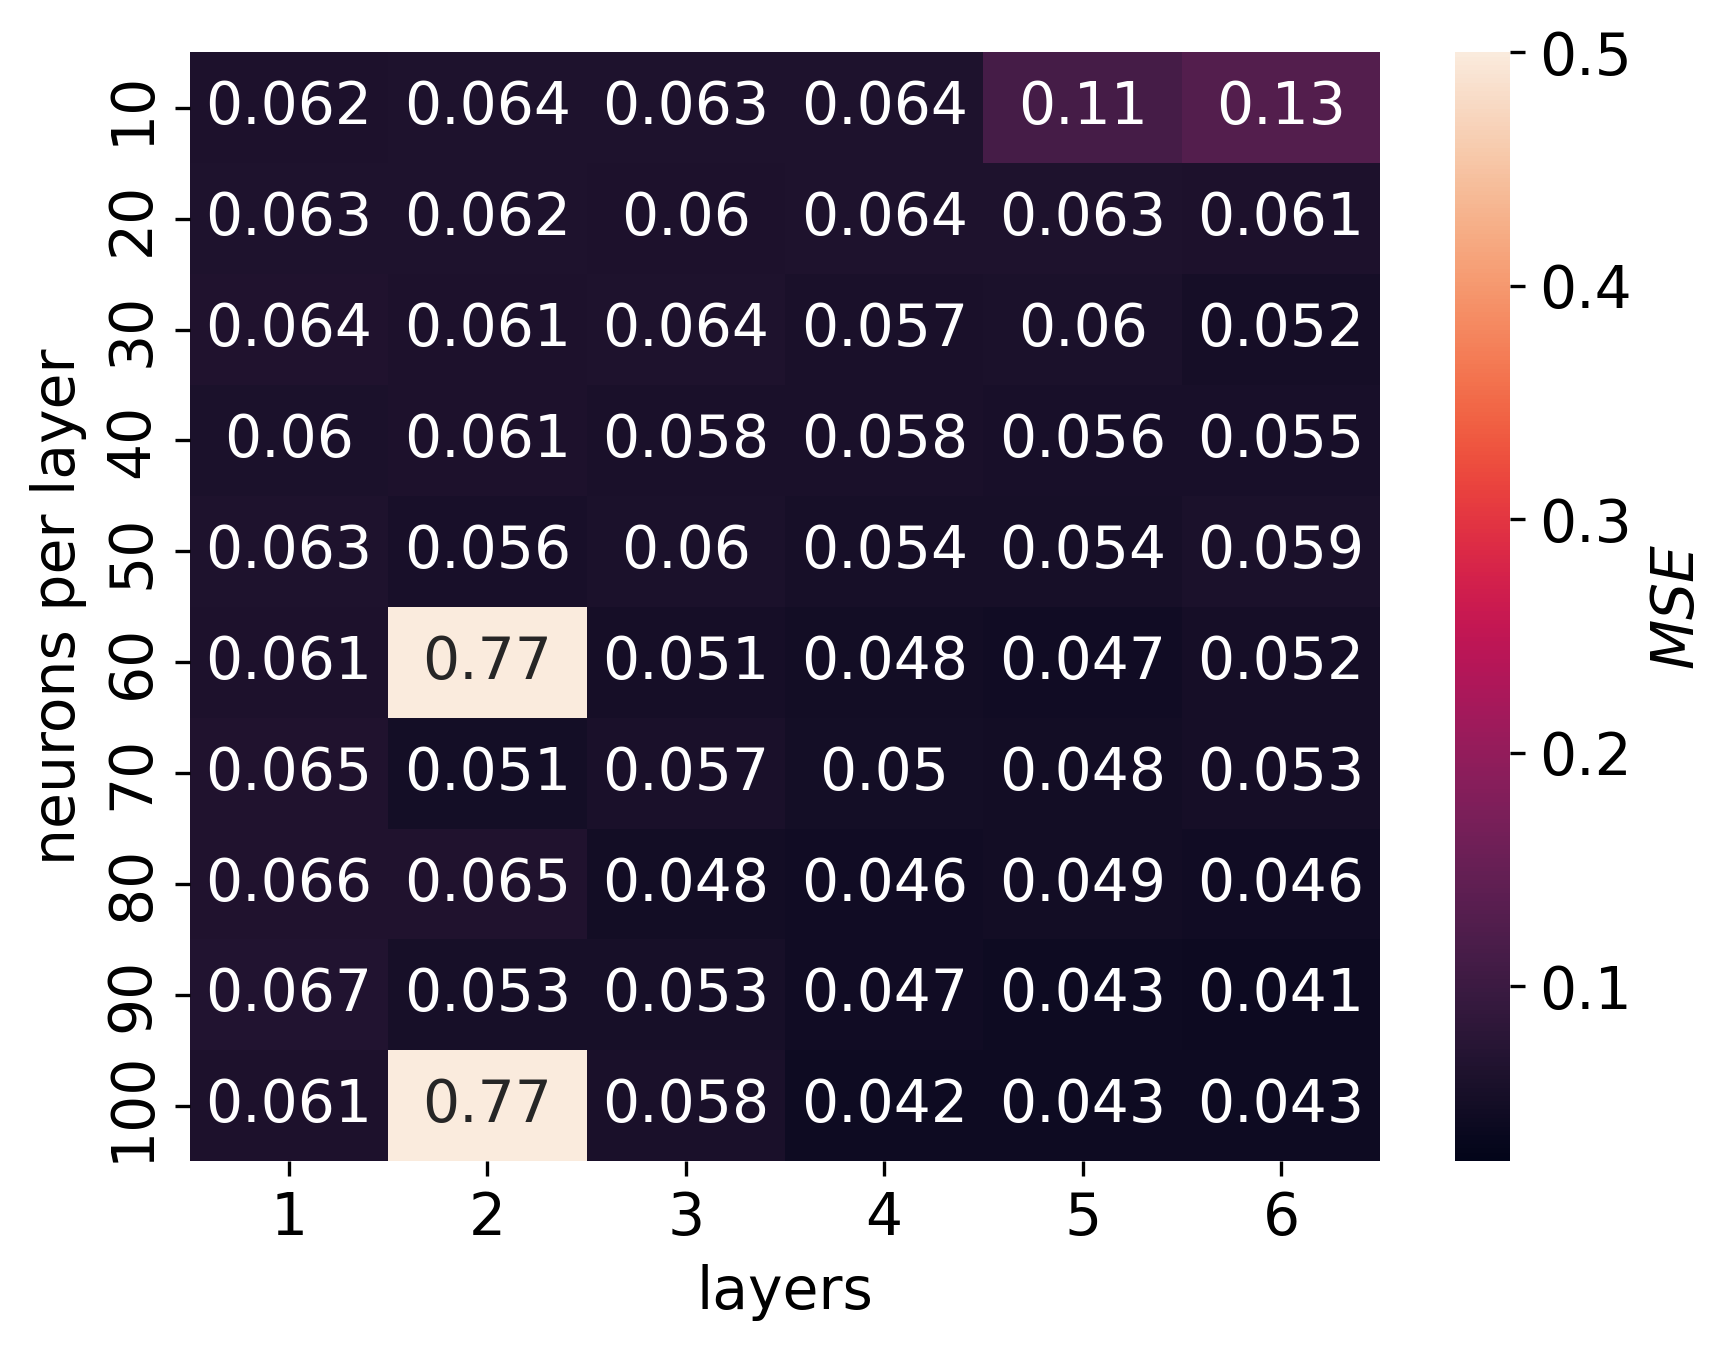
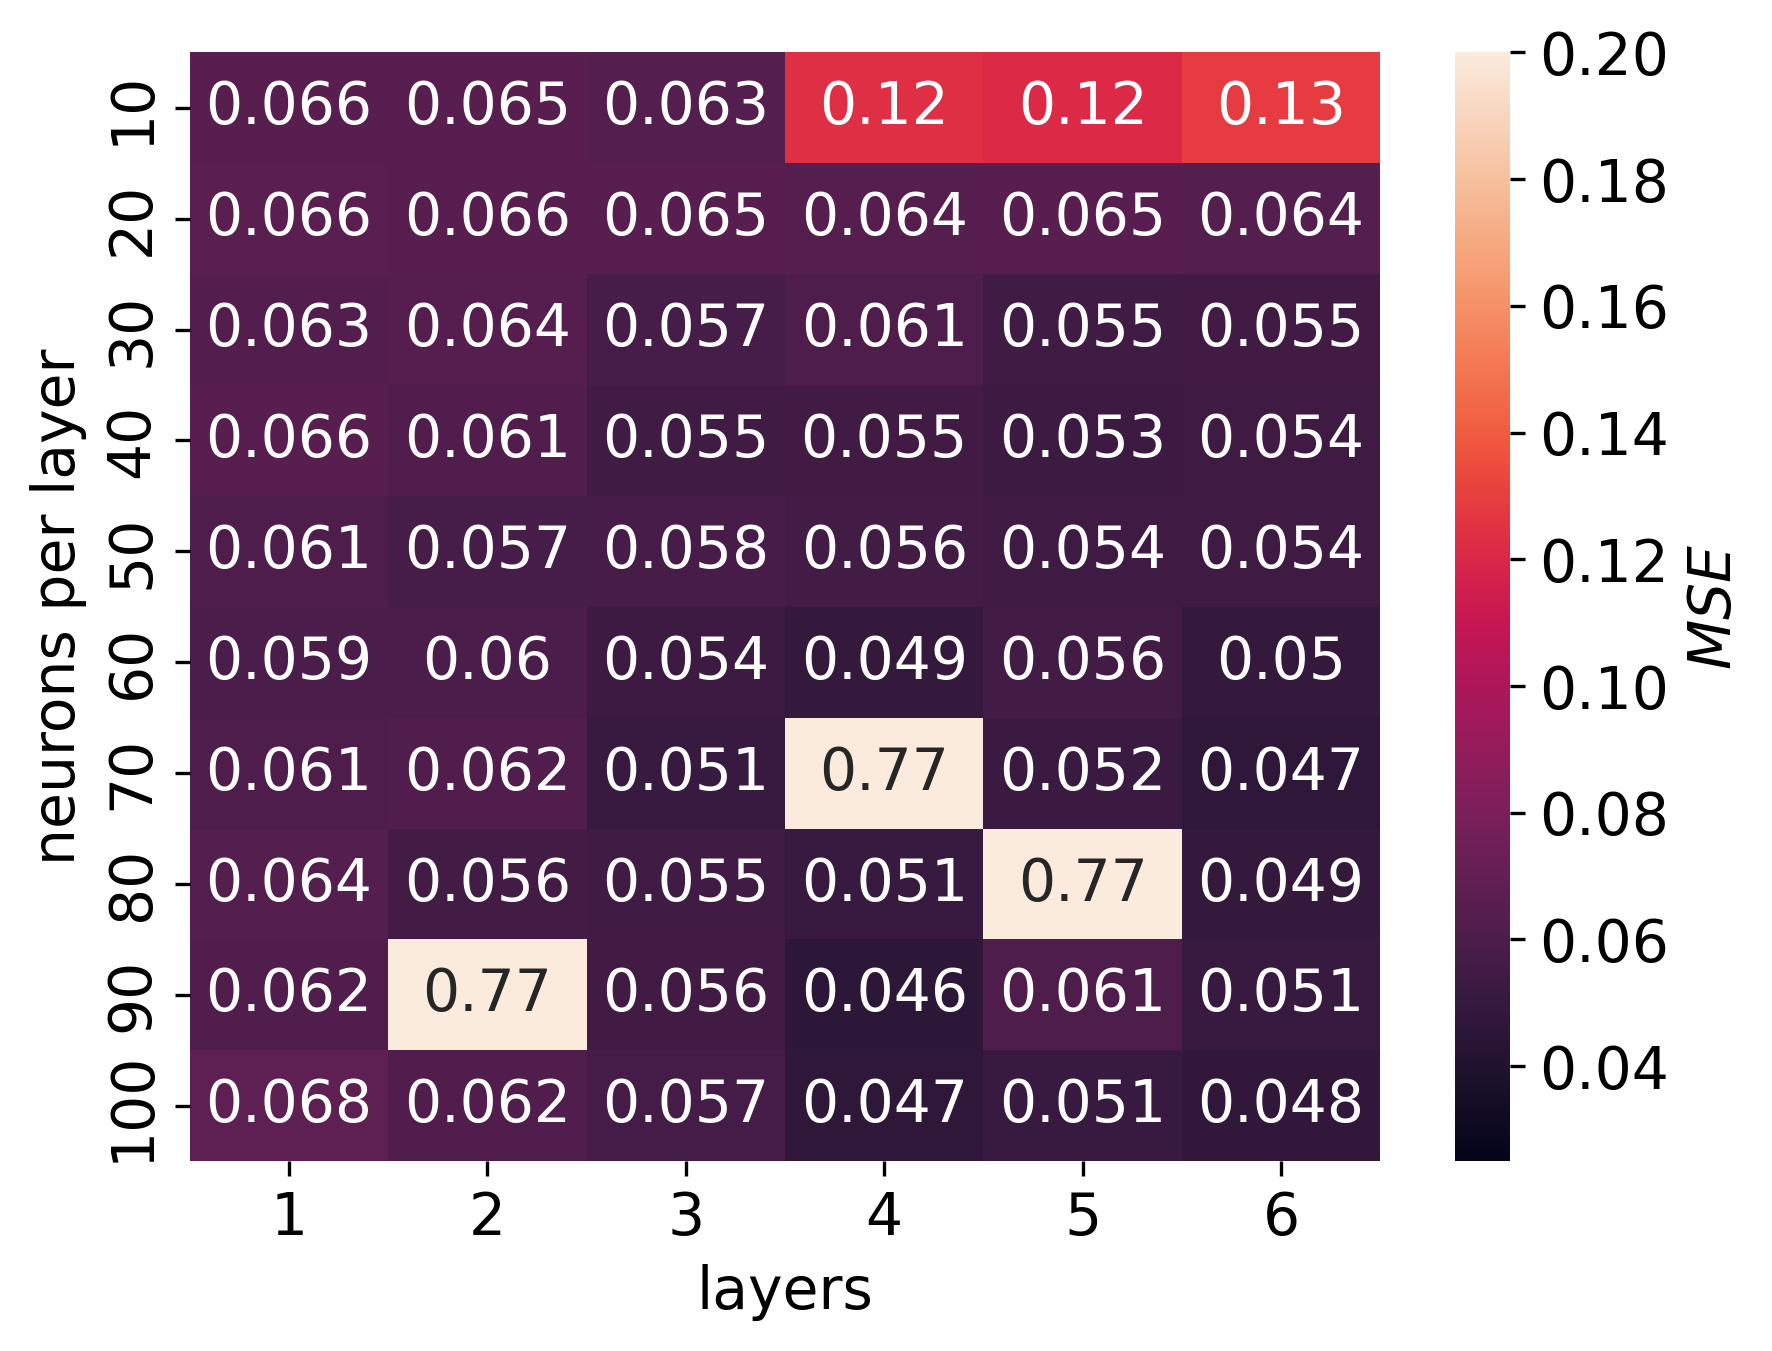
added cost function and activation function as arguments in NN

diff --git a/project2/src/NN.py b/project2/src/NN.py
@@ -8,7 +8,9 @@ from sklearn.metrics import mean_squared_error, r2_score, mean_squared_log_error
 
 class NeuralNetwork :
 
-    def __init__(self, X, Y, neurons, epochs, batch_size, eta, lamda=0., moment=0):
+    def __init__(self, X, Y, neurons, epochs, batch_size, eta, lamda=0., moment=0, seed=None, initialize="random", activation="sigmoid", cost="error", last_activation=None):
+        if seed != None:
+            np.random.seed(seed)
         self.X = X
         self.Y = Y 
         self.n_inputs = X.shape[0]
@@ -22,24 +24,66 @@ class NeuralNetwork :
         self.eta = eta 
         self.lamda = lamda
         self.moment = moment
+        self.initialize = initialize
         self.initialize_arrays()
-  
+
+        # Activation functions
+        self.act = self.activation_function(activation)
+        self.act_grad = self.activation_gradient(activation)
+
+        if last_activation != None:
+            self.act_grad_out = self.activation_gradient(last_activation)
+        else:
+            self.act_grad_out = self.act_grad
+
+        # Cost functions
+        if cost == "error":
+            self.cost = self.error 
+            self.cost_grad = self.error_grad
+        elif cost == "cross entropy":
+            self.cost = self.cross_entropy 
+            self.cost_grad = self.cross_entropy_grad
+
+    def activation_function(self, s):
+        if s == "relu":
+            return self.relu
+        elif s == "lrelu":
+            return self.l_relu
+        else:
+            return self.sigmoid 
+        
+    def activation_gradient(self, s):
+        if s == "relu":
+            return self.relu_grad
+        elif s == "lrelu":
+            return self.l_relu_grad
+        else:
+            return self.sigmoid_grad
+
     def initialize_arrays(self):
         # Initialize Weight
         self.weight = np.zeros(self.n_layers +1, dtype=object)
-        self.weight[0] = np.random.randn(int(self.neurons[0]), self.input_dim)
-        for i in range(1, self.n_layers):
-            self.weight[i] = np.random.randn(int(self.neurons[i]), int(self.neurons[i-1]))
-        self.weight[-1] = np.random.randn(self.output_dim, int(self.neurons[-1]))
-
-        # Initialize Bias
         self.bias = np.zeros(self.n_layers +1, dtype=object)
-        for i in range(self.n_layers):
-            #self.bias[i] = np.zeros(self.neurons[i])
-            self.bias[i] = np.random.randn(int(self.neurons[i]))
 
-        #self.bias[-1] = np.zeros(self.output_dim)
-        self.bias[-1] = np.random.randn(self.output_dim)
+        if self.initialize == "zeros":
+            self.weight[0] = np.zeros(int(self.neurons[0]), self.input_dim)
+            for i in range(1, self.n_layers):
+                self.weight[i] = np.zeros(int(self.neurons[i]), int(self.neurons[i-1]))
+            self.weight[-1] = np.zeros(self.output_dim, int(self.neurons[-1]))
+            # Initialize Bias
+            for i in range(self.n_layers):
+                self.bias[i] = np.zeros(int(self.neurons[i]))
+            self.bias[-1] = np.zeros(self.output_dim)          
+
+        elif self.initialize == "random":
+            self.weight[0] = np.random.randn(int(self.neurons[0]), self.input_dim)
+            for i in range(1, self.n_layers):
+                self.weight[i] = np.random.randn(int(self.neurons[i]), int(self.neurons[i-1]))
+            self.weight[-1] = np.random.randn(self.output_dim, int(self.neurons[-1]))
+            # Initialize Bias
+            for i in range(self.n_layers):
+                self.bias[i] = np.random.randn(int(self.neurons[i]))
+            self.bias[-1] = np.random.randn(self.output_dim)
 
         # Initialize
         self.a_l = np.zeros(self.n_layers + 1, dtype=object)
@@ -64,15 +108,15 @@ class NeuralNetwork :
         self.z_l[-1] = np.zeros((self.batch_size, self.output_dim))
 
         self.z_l[0] = self.X_batch @ self.weight[0].T + self.bias[0]
-        self.a_l[0] = self.sigmoid(self.z_l[0])
+        self.a_l[0] = self.act(self.z_l[0])
 
 
         for i in range(1, self.n_layers):
             self.z_l[i] = self.a_l[i-1] @ self.weight[i].T + self.bias[i]
-            self.a_l[i] = self.sigmoid(self.z_l[i])
+            self.a_l[i] = self.act(self.z_l[i])
 
         self.z_l[-1] = self.a_l[-2] @ self.weight[-1].T + self.bias[-1]
-        self.a_l[-1] = self.sigmoid(self.z_l[-1])
+        self.a_l[-1] = self.act(self.z_l[-1])
 
     def SGD(self):
          for epoch in range(self.epochs):
@@ -94,11 +138,11 @@ class NeuralNetwork :
     def backprop(self):
         for i in range(self.n_layers):
             self.error[i] = np.zeros((self.batch_size, int(self.neurons[i])))
-        self.error[-1] = self.error_cost_grad(self.a_l[-1], self.Y_batch) * self.sigmoid_grad(self.z_l[-1])
+        self.error[-1] = self.cost_grad(self.a_l[-1], self.Y_batch) * self.act_grad_out(self.z_l[-1])
 
         #backpropagation:
         for i in range(self.n_layers - 1, -1, -1):
-            self.error[i] = (self.error[i + 1] @ self.weight[i + 1]) * self.sigmoid_grad(self.z_l[i])
+            self.error[i] = (self.error[i + 1] @ self.weight[i + 1]) * self.act_grad(self.z_l[i])
         
         self.weight_grad[0] = self.error[0].T @ self.X_batch 
         self.bias_grad[0] = np.sum(self.error[0], axis=0) #######
@@ -113,14 +157,14 @@ class NeuralNetwork :
 
     def feed_forward_out(self, x):
         z_o = x @ self.weight[0].T + self.bias[0]
-        a_o = self.sigmoid(z_o)
+        a_o = self.act(z_o)
 
         for i in range(1, self.n_layers):
             z_o = a_o @ self.weight[i].T + self.bias[i]
-            a_o = self.sigmoid(z_o)
+            a_o = self.act(z_o)
 
         z_o = a_o @ self.weight[-1].T + self.bias[-1]
-        a_o = self.sigmoid(z_o)
+        a_o = self.act(z_o)
         return a_o
 
     def predict(self, x):
@@ -133,12 +177,29 @@ class NeuralNetwork :
     def sigmoid_grad(self, x):
         return self.sigmoid(x) * (1 - self.sigmoid(x)) 
     
-    def error_cost(self, a, y):
+    def relu(self, x):
+        return np.max(0, x)
+    
+    def relu_grad(self, x):
+        return np.where(x <= 0, 0, 1)
+    
+    def l_relu(self, x):
+        return np.where(x < 0, 0.01*x, x)
+    
+    def l_relu_grad(self, x):
+        return np.where(x < 0, 0.01, 1)
+
+    def error(self, a, y):
         return np.sum((a - y)**2) / 2
 
-    def error_cost_grad(self, a, y):
+    def error_grad(self, a, y):
         return a - y
 
+    def cross_entropy(self, a, y):
+        return -np.sum(y* np.log(a) + (1 - y) * np.log(1 - a))
+
+    def cross_entropy_grad(self, a, y):
+        return -(y - a) / (a - a**2)
 
 def design_matrix_1D(x, degree):
     N = len(x)

diff --git a/project2/src/gris_search.py b/project2/src/gris_search.py
@@ -2,20 +2,21 @@ from NN import *
 from functions import * 
 from compare import *
 
-def grid_search_eta_lamda(eta, lamda):
+def grid_search_eta_lamda(xy, xy_test, z, z_test, eta, lamda, neurons, mn, mx, savename, epochs=50, batch_size=5, init="random", act="sigmoid", seed=100):
     mse = np.zeros((len(eta), len(lamda)))
-        for i in range(len(eta)):
-            for j in range(len(lamda)):
-                NN = NeuralNetwork(xy, z.reshape(len(z), 1), neurons, epochs, batch_size, eta, lamda)
-                NN.SGD()
-                pred = min_max_unscale(NN.predict(xy_test).ravel(), mn, mx)
-                mse[i, j] = (MSE(z_test, pred))
+    for i in range(len(eta)):
+        for j in range(len(lamda)):
+            print(lamda[j])
+            NN = NeuralNetwork(xy, z.reshape(len(z), 1), neurons, epochs, batch_size, eta[i], lamda[j], seed=seed, initialize=init, activation=act)
+            NN.SGD()
+            pred = min_max_unscale(NN.predict(xy_test).ravel(), mn, mx)
+            mse[i, j] = (MSE(z_test, pred))
 
-    df = pd.DataFrame(mse, columns=eta, index=lamda)
+    df = pd.DataFrame(mse, columns=np.log10(lamda), index=eta)
     plt.figure()
-    sns.heatmap(df, annot=True, cbar_kws={"label": r"$MSE$"}, vmin=0.025, vmax=0.5)
-    plt.xlabel(r"log$_{10}(\eta$)")
-    plt.ylabel(r"log$_{10}(\lambda$)")
+    sns.heatmap(df, annot=True, cbar_kws={"label": r"$MSE$"}, vmin=0.025, vmax=0.2)
+    plt.xlabel(r"log$_{10}(\lambda$)")
+    plt.ylabel(r"$\eta$")
     plt.savefig("../figures/%s.png" %(savename), dpi=300, bbox_inches='tight')
 
 def neuron_array(layers, neurons):
@@ -25,13 +26,13 @@ def neuron_array(layers, neurons):
 
     return n
 
-def grid_search_layer_neurons(xy, xy_test, z, z_test, n_layer, neurons, mn, mx, savename, epochs=50, eta=0.1, lamda=0, batch_size=5):
+def grid_search_layer_neurons(xy, xy_test, z, z_test, n_layer, neurons, mn, mx, savename, epochs=50, eta=0.1, lamda=0, batch_size=5, init="random", act="sigmoid", seed=100):
     mse = np.zeros((len(neurons), len(n_layer)))
     for i in range(len(neurons)):
         for j in range(len(n_layer)):
             neur = neuron_array(n_layer[j], neurons[i])
             print(neur)
-            NN = NeuralNetwork(xy, z.reshape(len(z), 1), neur, epochs, batch_size, eta, lamda)
+            NN = NeuralNetwork(xy, z.reshape(len(z), 1), neur, epochs, batch_size, eta, lamda, seed=seed, initialize=init, activation=act)
             NN.SGD()
             pred = min_max_unscale(NN.predict(xy_test).ravel(), mn, mx)
             mse[i, j] = (MSE(z_test, pred))
@@ -61,8 +62,16 @@ def main():
     xy = np.array([x_s, y_s]).T
     xy_test = np.array([x.ravel(), y.ravel()]).T
 
- 
-    # Own NeuralNetwork
+    batch_size = 5
+    # lambda - eta
+    neurons = np.array([91, 91, 91, 91, 91]) # in hidden layers 
+    eta = np.array([0.01, 0.05, 0.1, 0.2, 0.4, 1])
+    lamda = np.logspace(-9, -3, 7)
+    grid_search_eta_lamda(xy, xy_test, z_s, z, eta, lamda, neurons, mn, mx, "grid_eta_lmb", epochs=50, batch_size=5)
+
+
+    # layers - neurons
+    """
     neurons = np.array([400, 400]) # in hidden layers 
     epochs = 100
     batch_size = 5
@@ -70,21 +79,17 @@ def main():
     lamda=1e-5
     n_layer = [1, 2, 3, 4]
     neurons = [10, 50, 100, 200, 400]
-    #grid_search_layer_neurons(xy, xy_test, z_s, z, n_layer, neurons, mn, mx, savename="grid_L_n_large", epochs=50, eta=0.01, lamda=0, batch_size=5)
+    grid_search_layer_neurons(xy, xy_test, z_s, z, n_layer, neurons, mn, mx, savename="grid_L_n_large", epochs=50, eta=0.01, lamda=0, batch_size=5)
     n_layer = [1, 2, 3, 4, 5, 6]
     neurons = [10, 20, 30, 40, 50, 60, 70, 80, 90, 100]
-    grid_search_layer_neurons(xy, xy_test, z_s, z, n_layer, neurons, mn, mx, savename="grid_L_n_small", epochs=100, eta=0.1, lamda=0, batch_size=5)
+    grid_search_layer_neurons(xy, xy_test, z_s, z, n_layer, neurons, mn, mx, savename="grid_L_n_small", epochs=50, eta=0.1, lamda=0, batch_size=5)
     n_layer = [4, 5, 6, 7, 8]
     neurons = [87, 88, 89, 90, 91, 92, 93, 94]
-    grid_search_layer_neurons(xy, xy_test, z_s, z, n_layer, neurons, mn, mx, savename="grid_L_n_narrow", epochs=100, eta=0.1, lamda=0, batch_size=5)
-    
+    grid_search_layer_neurons(xy, xy_test, z_s, z, n_layer, neurons, mn, mx, savename="grid_L_n_narrow_zoom", epochs=50, eta=0.1, lamda=0, batch_size=5)
     n_layer = [3, 4]
     neurons = [200, 250, 300, 350, 400]
-    #grid_search_layer_neurons(xy, xy_test, z_s, z, n_layer, neurons, mn, mx, savename="grid_L_n_wide_zoom", epochs=50, eta=0.1, lamda=0, batch_size=5)
-    n_layer = [3, 4]
-    neurons = [200, 250, 300, 350, 400]
-    #grid_search_layer_neurons(xy, xy_test, z_s, z, n_layer, neurons, mn, mx, savename="grid_L_n_wide_zoom", epochs=50, eta=0.1, lamda=0, batch_size=5)
-
+    grid_search_layer_neurons(xy, xy_test, z_s, z, n_layer, neurons, mn, mx, savename="grid_L_n_wide_zoom", epochs=50, eta=0.1, lamda=0, batch_size=5)
+    """
 
 if __name__ == "__main__":
     main()
